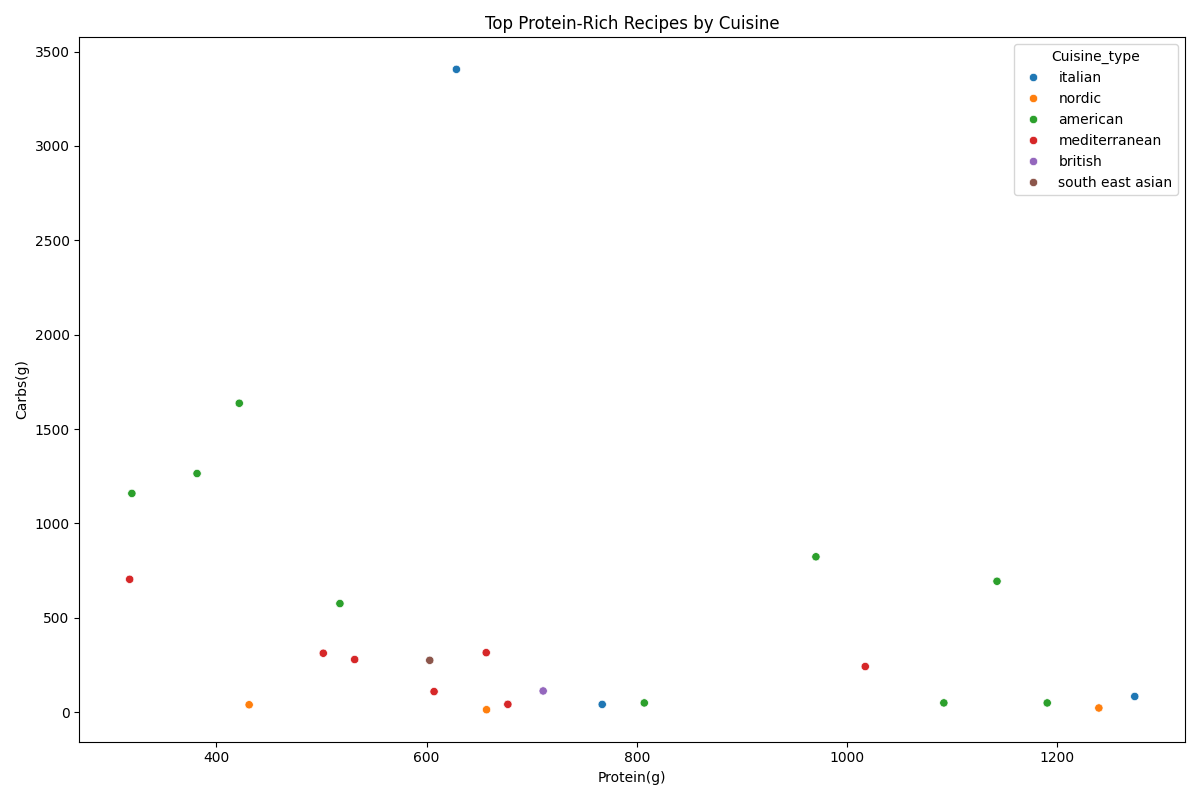
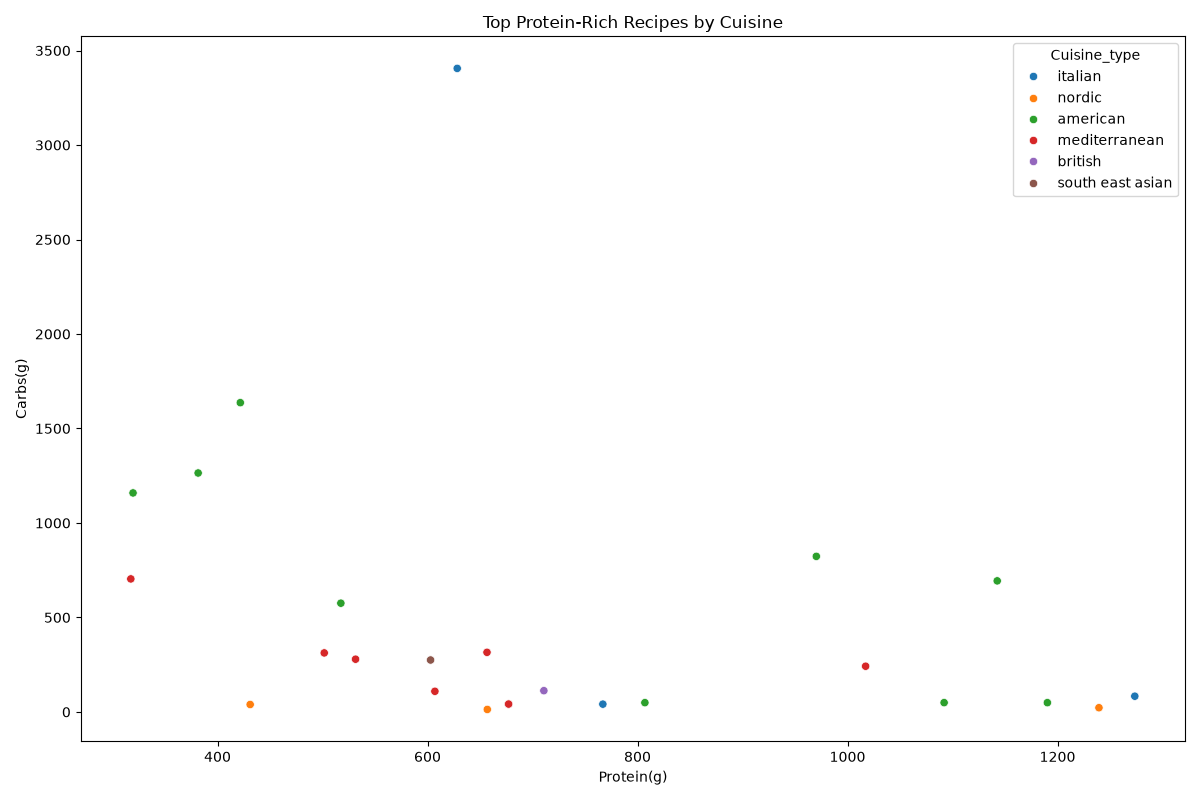
Task 5 optimizing csv data reading

diff --git a/data_analysis.py b/data_analysis.py
@@ -7,8 +7,9 @@ print("STARTING DATA ANALYSIS")
 print("=================================")
 # load The dataset
 print("Start Running analysis...")
+start_time = pd.Timestamp.now()
 path_to_csv = 'All_Diets.csv';
-df = pd.read_csv(path_to_csv);
+df = pd.read_csv(path_to_csv, engine='pyarrow');
 print(f"\nDataset loaded successfully.")
 print(f"Rows: {df.shape[0]}")
 print(f"Columns: {df.shape[1]}")
@@ -130,6 +131,7 @@ print("Scatter plot saved.")
 print("\n=================================")
 print("ANALYSIS COMPLETE")
 print("=================================")
+print(f"Total execution time: {(pd.Timestamp.now() - start_time).total_seconds():.2f} seconds")
 
 print("\nGenerated files:")
 print("- average_macros.csv")

diff --git a/Readme.md b/Readme.md
@@ -63,7 +63,7 @@ pip install -r requirements.txt
 
 If requirements.txt is missing:
 ```bash
-pip install pandas matplotlib seaborn numpy
+pip install pandas matplotlib seaborn numpy pyarrow
 ```
 
 ### 4️⃣ Run the Analysis Script
@@ -103,6 +103,7 @@ numpy
 matplotlib
 seaborn
 docker
+pyarrow
 
 ## 🖼️ Screenshots Requirement
 